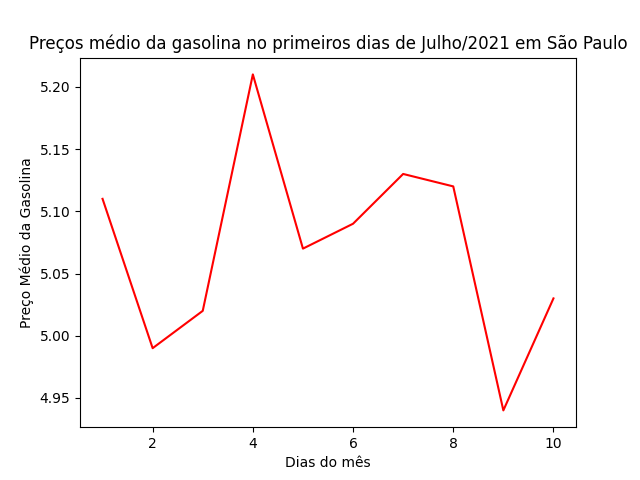
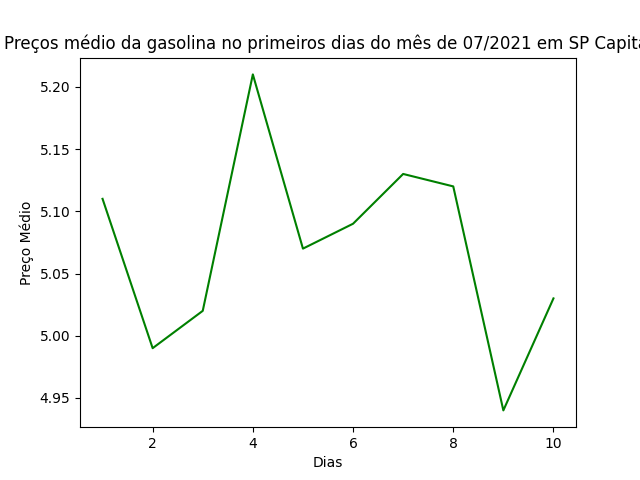
arquivo preco_medio_gasolina.png alterado e novo_codigo_gasolina.py criado

diff --git a/novo_codigo_gasolina.py b/novo_codigo_gasolina.py
@@ -1,0 +1,13 @@
+import seaborn as sns
+import pandas as pd
+import csv
+
+#Carregando infos
+gas = pd.read_csv('gasolina.csv')
+
+#Construindo e apresentando o gráfico
+grafico = sns.lineplot(data=gas, x='dia', y='venda', color='Green')
+grafico.set(title='Preços médio da gasolina no primeiros dias do mês de 07/2021 em SP Capital', xlabel='Dias', ylabel='Preço Médio')
+
+#Salvando o gráfico
+grafico.get_figure().savefig('/content/da-ebac/preco_medio_gasolina.png')
